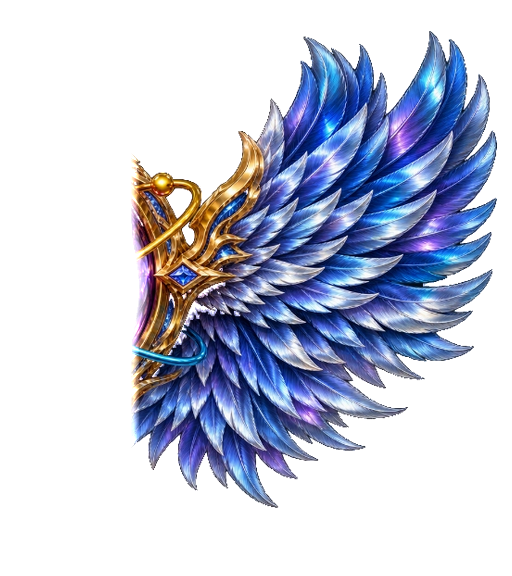
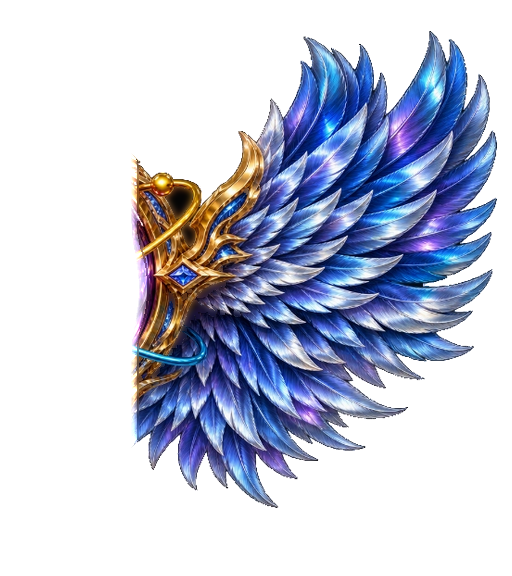
v403: fix Dynamo Tier IV cut wingtips with sharp uncut feathers and flat-cut validator

diff --git a/sw.js b/sw.js
@@ -1,41 +1,41 @@
 /* OrlandoChrome · Offline-First Service Worker (PWA Ready) */
-const CACHE_NAME = 'orlandochrome-arcade-v402_wings_connected_db';
+const CACHE_NAME = 'orlandochrome-arcade-v403_uncut_t4_wings';
 const ASSETS = [
   './',
   './index.html',
   './styles.css?v=arcade392_arsenal_overhaul',
-  './game.js?v=arcade402_wings_connected_db',
-  './assets/core-geometry-db.json?v=arcade402_wings_connected_db',
-  './assets/core-dynamo-t1.png?v=arcade402_wings_connected_db',
-  './assets/core-dynamo-t2.png?v=arcade402_wings_connected_db',
-  './assets/core-dynamo-t3.png?v=arcade402_wings_connected_db',
-  './assets/core-dynamo-t4.png?v=arcade402_wings_connected_db',
-  './assets/core-dynamo-t5.png?v=arcade402_wings_connected_db',
-  './assets/core-helix-t1.png?v=arcade402_wings_connected_db',
-  './assets/core-helix-t2.png?v=arcade402_wings_connected_db',
-  './assets/core-helix-t3.png?v=arcade402_wings_connected_db',
-  './assets/core-helix-t4.png?v=arcade402_wings_connected_db',
-  './assets/core-helix-t5.png?v=arcade402_wings_connected_db',
-  './assets/core-meteor-t1.png?v=arcade402_wings_connected_db',
-  './assets/core-meteor-t2.png?v=arcade402_wings_connected_db',
-  './assets/core-meteor-t3.png?v=arcade402_wings_connected_db',
-  './assets/core-meteor-t4.png?v=arcade402_wings_connected_db',
-  './assets/core-meteor-t5.png?v=arcade402_wings_connected_db',
-  './assets/core-dynamo-wing-r-t2.png?v=arcade402_wings_connected_db',
-  './assets/core-dynamo-wing-r-t3.png?v=arcade402_wings_connected_db',
-  './assets/core-dynamo-wing-r-t4.png?v=arcade402_wings_connected_db',
-  './assets/core-dynamo-wing-r-t5.png?v=arcade402_wings_connected_db',
-  './assets/core-helix-wing-r-t2.png?v=arcade402_wings_connected_db',
-  './assets/core-helix-wing-r-t3.png?v=arcade402_wings_connected_db',
-  './assets/core-helix-wing-r-t4.png?v=arcade402_wings_connected_db',
-  './assets/core-helix-wing-r-t5.png?v=arcade402_wings_connected_db',
-  './assets/core-meteor-wing-r-t2.png?v=arcade402_wings_connected_db',
-  './assets/core-meteor-wing-r-t3.png?v=arcade402_wings_connected_db',
-  './assets/core-meteor-wing-r-t4.png?v=arcade402_wings_connected_db',
-  './assets/core-meteor-wing-r-t5.png?v=arcade402_wings_connected_db',
-  './assets/core-dynamo-bezel-t5.png?v=arcade402_wings_connected_db',
-  './assets/core-helix-bezel-t5.png?v=arcade402_wings_connected_db',
-  './assets/core-helix-glass-shell.png?v=arcade402_wings_connected_db',
+  './game.js?v=arcade403_uncut_t4_wings',
+  './assets/core-geometry-db.json?v=arcade403_uncut_t4_wings',
+  './assets/core-dynamo-t1.png?v=arcade403_uncut_t4_wings',
+  './assets/core-dynamo-t2.png?v=arcade403_uncut_t4_wings',
+  './assets/core-dynamo-t3.png?v=arcade403_uncut_t4_wings',
+  './assets/core-dynamo-t4.png?v=arcade403_uncut_t4_wings',
+  './assets/core-dynamo-t5.png?v=arcade403_uncut_t4_wings',
+  './assets/core-helix-t1.png?v=arcade403_uncut_t4_wings',
+  './assets/core-helix-t2.png?v=arcade403_uncut_t4_wings',
+  './assets/core-helix-t3.png?v=arcade403_uncut_t4_wings',
+  './assets/core-helix-t4.png?v=arcade403_uncut_t4_wings',
+  './assets/core-helix-t5.png?v=arcade403_uncut_t4_wings',
+  './assets/core-meteor-t1.png?v=arcade403_uncut_t4_wings',
+  './assets/core-meteor-t2.png?v=arcade403_uncut_t4_wings',
+  './assets/core-meteor-t3.png?v=arcade403_uncut_t4_wings',
+  './assets/core-meteor-t4.png?v=arcade403_uncut_t4_wings',
+  './assets/core-meteor-t5.png?v=arcade403_uncut_t4_wings',
+  './assets/core-dynamo-wing-r-t2.png?v=arcade403_uncut_t4_wings',
+  './assets/core-dynamo-wing-r-t3.png?v=arcade403_uncut_t4_wings',
+  './assets/core-dynamo-wing-r-t4.png?v=arcade403_uncut_t4_wings',
+  './assets/core-dynamo-wing-r-t5.png?v=arcade403_uncut_t4_wings',
+  './assets/core-helix-wing-r-t2.png?v=arcade403_uncut_t4_wings',
+  './assets/core-helix-wing-r-t3.png?v=arcade403_uncut_t4_wings',
+  './assets/core-helix-wing-r-t4.png?v=arcade403_uncut_t4_wings',
+  './assets/core-helix-wing-r-t5.png?v=arcade403_uncut_t4_wings',
+  './assets/core-meteor-wing-r-t2.png?v=arcade403_uncut_t4_wings',
+  './assets/core-meteor-wing-r-t3.png?v=arcade403_uncut_t4_wings',
+  './assets/core-meteor-wing-r-t4.png?v=arcade403_uncut_t4_wings',
+  './assets/core-meteor-wing-r-t5.png?v=arcade403_uncut_t4_wings',
+  './assets/core-dynamo-bezel-t5.png?v=arcade403_uncut_t4_wings',
+  './assets/core-helix-bezel-t5.png?v=arcade403_uncut_t4_wings',
+  './assets/core-helix-glass-shell.png?v=arcade403_uncut_t4_wings',
   './assets/voidbloom-3d.png?v=arcade388_voidbloom3d',
   './assets/boss-r1-sentinel.png?v=arcade389_boss_nova',
   './assets/boss-r2-corruptor.png?v=arcade389_boss_nova',

diff --git a/game.js b/game.js
@@ -2332,7 +2332,7 @@
   // Ensures zero wing clipping at sprite/viewport edges and unified size scaling across all realms & tiers
   // ─────────────────────────────────────────────────────────────
   const CORE_GEOMETRY_DB = {
-    version: 'v402_wings_connected_db',
+    version: 'v403_uncut_t4_wings',
     refCanvasW: 1024,
     refCanvasH: 576,
     wingCanvasW: 512,
@@ -2348,7 +2348,7 @@
     data: null,
     load() {
       if (typeof fetch !== 'function') return;
-      fetch('assets/core-geometry-db.json?v=arcade402_wings_connected_db')
+      fetch('assets/core-geometry-db.json?v=arcade403_uncut_t4_wings')
         .then((r) => (r && r.ok ? r.json() : null))
         .then((json) => {
           if (!json || !json.tierMaxTipXRef) return;
@@ -2506,12 +2506,12 @@
   }
 
   LayeredT4Assets.helixGlassShell.onload = () => { LayeredT4Assets.loaded.helixGlassShell = true; };
-  LayeredT4Assets.helixGlassShell.src = 'assets/core-helix-glass-shell.png?v=arcade402_wings_connected_db';
+  LayeredT4Assets.helixGlassShell.src = 'assets/core-helix-glass-shell.png?v=arcade403_uncut_t4_wings';
 
   LayeredT4Assets.bezelT5.dynamo.onload = () => { LayeredT4Assets.loaded.bezelT5.dynamo = true; };
-  LayeredT4Assets.bezelT5.dynamo.src = 'assets/core-dynamo-bezel-t5.png?v=arcade402_wings_connected_db';
+  LayeredT4Assets.bezelT5.dynamo.src = 'assets/core-dynamo-bezel-t5.png?v=arcade403_uncut_t4_wings';
   LayeredT4Assets.bezelT5.helix.onload = () => { LayeredT4Assets.loaded.bezelT5.helix = true; };
-  LayeredT4Assets.bezelT5.helix.src = 'assets/core-helix-bezel-t5.png?v=arcade402_wings_connected_db';
+  LayeredT4Assets.bezelT5.helix.src = 'assets/core-helix-bezel-t5.png?v=arcade403_uncut_t4_wings';
 
   ['dynamo', 'helix', 'meteor'].forEach((m) => {
     LayeredT4Assets.halo[m].onload = () => { LayeredT4Assets.loaded.halo[m] = true; };
@@ -2530,21 +2530,21 @@
     LayeredT4Assets.coreBaseT5[m].onload = () => {
       LayeredT4Assets.loaded.coreBaseT5[m] = true;
     };
-    LayeredT4Assets.coreBaseT5[m].src = `assets/core-${m}-t5.png?v=arcade402_wings_connected_db`;
+    LayeredT4Assets.coreBaseT5[m].src = `assets/core-${m}-t5.png?v=arcade403_uncut_t4_wings`;
 
     for (let t = 1; t <= 5; t++) {
       const cImg = new Image();
       LayeredT4Assets.coreTierSprites[m][t] = cImg;
       LayeredT4Assets.loaded.coreTierSprites[m][t] = false;
       cImg.onload = () => { LayeredT4Assets.loaded.coreTierSprites[m][t] = true; };
-      cImg.src = `assets/core-${m}-t${t}.png?v=arcade402_wings_connected_db`;
+      cImg.src = `assets/core-${m}-t${t}.png?v=arcade403_uncut_t4_wings`;
 
       if (t >= 2) {
         const wImg = new Image();
         LayeredT4Assets.wingRightTiers[m][t] = wImg;
         LayeredT4Assets.loaded.wingRightTiers[m][t] = false;
         wImg.onload = () => { LayeredT4Assets.loaded.wingRightTiers[m][t] = true; };
-        wImg.src = `assets/core-${m}-wing-r-t${t}.png?v=arcade402_wings_connected_db`;
+        wImg.src = `assets/core-${m}-wing-r-t${t}.png?v=arcade403_uncut_t4_wings`;
       }
     }
   });

diff --git a/index.html b/index.html
@@ -2683,7 +2683,7 @@
           <canvas class="oc-realm-btn-fx" aria-hidden="true"></canvas>
           <span class="oc-realm-orb oc-realm-orb-dynamo" aria-hidden="true">
             <span class="oc-realm-orb-ring"></span>
-            <span class="oc-realm-orb-clip"><img src="assets/core-dynamo-t5.png?v=arcade402_wings_connected_db" alt="" class="oc-realm-orb-img" /></span>
+            <span class="oc-realm-orb-clip"><img src="assets/core-dynamo-t5.png?v=arcade403_uncut_t4_wings" alt="" class="oc-realm-orb-img" /></span>
           </span>
           <span class="game-btn-label oc-realm-label">DYNAMO</span>
         </button>
@@ -2692,7 +2692,7 @@
           <canvas class="oc-realm-btn-fx" aria-hidden="true"></canvas>
           <span class="oc-realm-orb oc-realm-orb-helix" aria-hidden="true">
             <span class="oc-realm-orb-ring"></span>
-            <span class="oc-realm-orb-clip"><img src="assets/core-helix-t5.png?v=arcade402_wings_connected_db" alt="" class="oc-realm-orb-img" /></span>
+            <span class="oc-realm-orb-clip"><img src="assets/core-helix-t5.png?v=arcade403_uncut_t4_wings" alt="" class="oc-realm-orb-img" /></span>
           </span>
           <span class="game-btn-label oc-realm-label">HELIX</span>
         </button>
@@ -2701,7 +2701,7 @@
           <canvas class="oc-realm-btn-fx" aria-hidden="true"></canvas>
           <span class="oc-realm-orb oc-realm-orb-meteor" aria-hidden="true">
             <span class="oc-realm-orb-ring"></span>
-            <span class="oc-realm-orb-clip"><img src="assets/core-meteor-t5.png?v=arcade402_wings_connected_db" alt="" class="oc-realm-orb-img" /></span>
+            <span class="oc-realm-orb-clip"><img src="assets/core-meteor-t5.png?v=arcade403_uncut_t4_wings" alt="" class="oc-realm-orb-img" /></span>
           </span>
           <span class="game-btn-label oc-realm-label">METEOR</span>
         </button>
@@ -3149,7 +3149,7 @@
                 <span class="oc-go-emblem-ring"></span>
                 <span class="oc-go-emblem-ring-inner"></span>
                 <span class="oc-go-emblem-clip">
-                  <img id="cgRealmEmblemImg" class="oc-go-emblem-img" src="assets/core-dynamo-t5.png?v=arcade402_wings_connected_db" alt="" />
+                  <img id="cgRealmEmblemImg" class="oc-go-emblem-img" src="assets/core-dynamo-t5.png?v=arcade403_uncut_t4_wings" alt="" />
                 </span>
               </div>
 
@@ -3285,7 +3285,7 @@
       </div>
     </div>
   </div>
-  <script src="game.js?v=arcade402_wings_connected_db"></script>
+  <script src="game.js?v=arcade403_uncut_t4_wings"></script>
   <!-- BuildStamp: 2026-11-17T13:55:00.000Z - Quantum Chromatic Monogram v314 -->
 
 </body>

diff --git a/scripts/verify_core_wings_db.py b/scripts/verify_core_wings_db.py
@@ -13,6 +13,19 @@ MIN_EDGE_MARGIN = 12
 MIN_OVERLAP_PX = 12
 SPHERE_PARITY_TOL = 2
 SPAN_PARITY_TOL = 2
+MAX_FLAT_WALL_R = 31
+
+
+def max_contig_wall(mask, x_col, tol=0):
+    col = mask[:, max(0, x_col - tol):x_col + 1].any(axis=1)
+    best = cur = 0
+    for v in col:
+        if v:
+            cur += 1
+            best = max(best, cur)
+        else:
+            cur = 0
+    return best
 
 
 def rotate_wing(wing_img, angle_deg, hinge_x):
@@ -68,8 +81,8 @@ def main():
         "meteor": None,
     }
 
-    print(f"{'MODEL':14s} {'FULL WxH':11s} {'MARGINS (L/R/T/B)':19s} {'TIP_X':6s} {'OVLP':5s} {'GAP(0/+10/-10)':15s} {'STATUS'}")
-    print("-" * 82)
+    print(f"{'MODEL':14s} {'FULL WxH':11s} {'MARGINS (L/R/T/B)':19s} {'TIP_X':6s} {'WALL_R':7s} {'OVLP':5s} {'GAP(0/+10/-10)':15s} {'STATUS'}")
+    print("-" * 90)
 
     sphere_widths = []
     for t in tiers:
@@ -96,6 +109,7 @@ def main():
                 notes.append(f"db_mismatch({entry['fullW']}x{entry['fullH']} vs {fw}x{fh})")
 
             tip_str = "-"
+            wall_str = "-"
             ov_str = "-"
             gap_str = "-"
 
@@ -110,6 +124,12 @@ def main():
                 wtip = int(wxs.max())
                 wtop, wbot = int(wys.min()), int(wys.max())
                 tip_str = str(wtip)
+
+                wall_r = max_contig_wall(np.array(wim)[:, :, 3] > 20, wtip, tol=0)
+                wall_str = str(wall_r)
+                if wall_r > MAX_FLAT_WALL_R:
+                    ok = False
+                    notes.append(f"flat_cut_wall_r={wall_r}>{MAX_FLAT_WALL_R}")
 
                 if abs(wtip - db["tierMaxTipXRef"][str(t)]) > SPAN_PARITY_TOL:
                     ok = False
@@ -132,7 +152,7 @@ def main():
             status = "PASS" if ok else "FAIL: " + ",".join(notes)
             if not ok:
                 failures.append(f"{m}-t{t}: {status}")
-            print(f"{m:6s}-t{t:<6d} {fw:4d}x{fh:<4d}  {ml:3d}/{mr:3d}/{mt:3d}/{mb:3d}         {tip_str:6s} {ov_str:5s} {gap_str:15s} {status}")
+            print(f"{m:6s}-t{t:<6d} {fw:4d}x{fh:<4d}  {ml:3d}/{mr:3d}/{mt:3d}/{mb:3d}         {tip_str:6s} {wall_str:7s} {ov_str:5s} {gap_str:15s} {status}")
 
         w_vals = [w for _, w in tier_full_widths]
         if max(w_vals) - min(w_vals) > SPAN_PARITY_TOL * 2:
